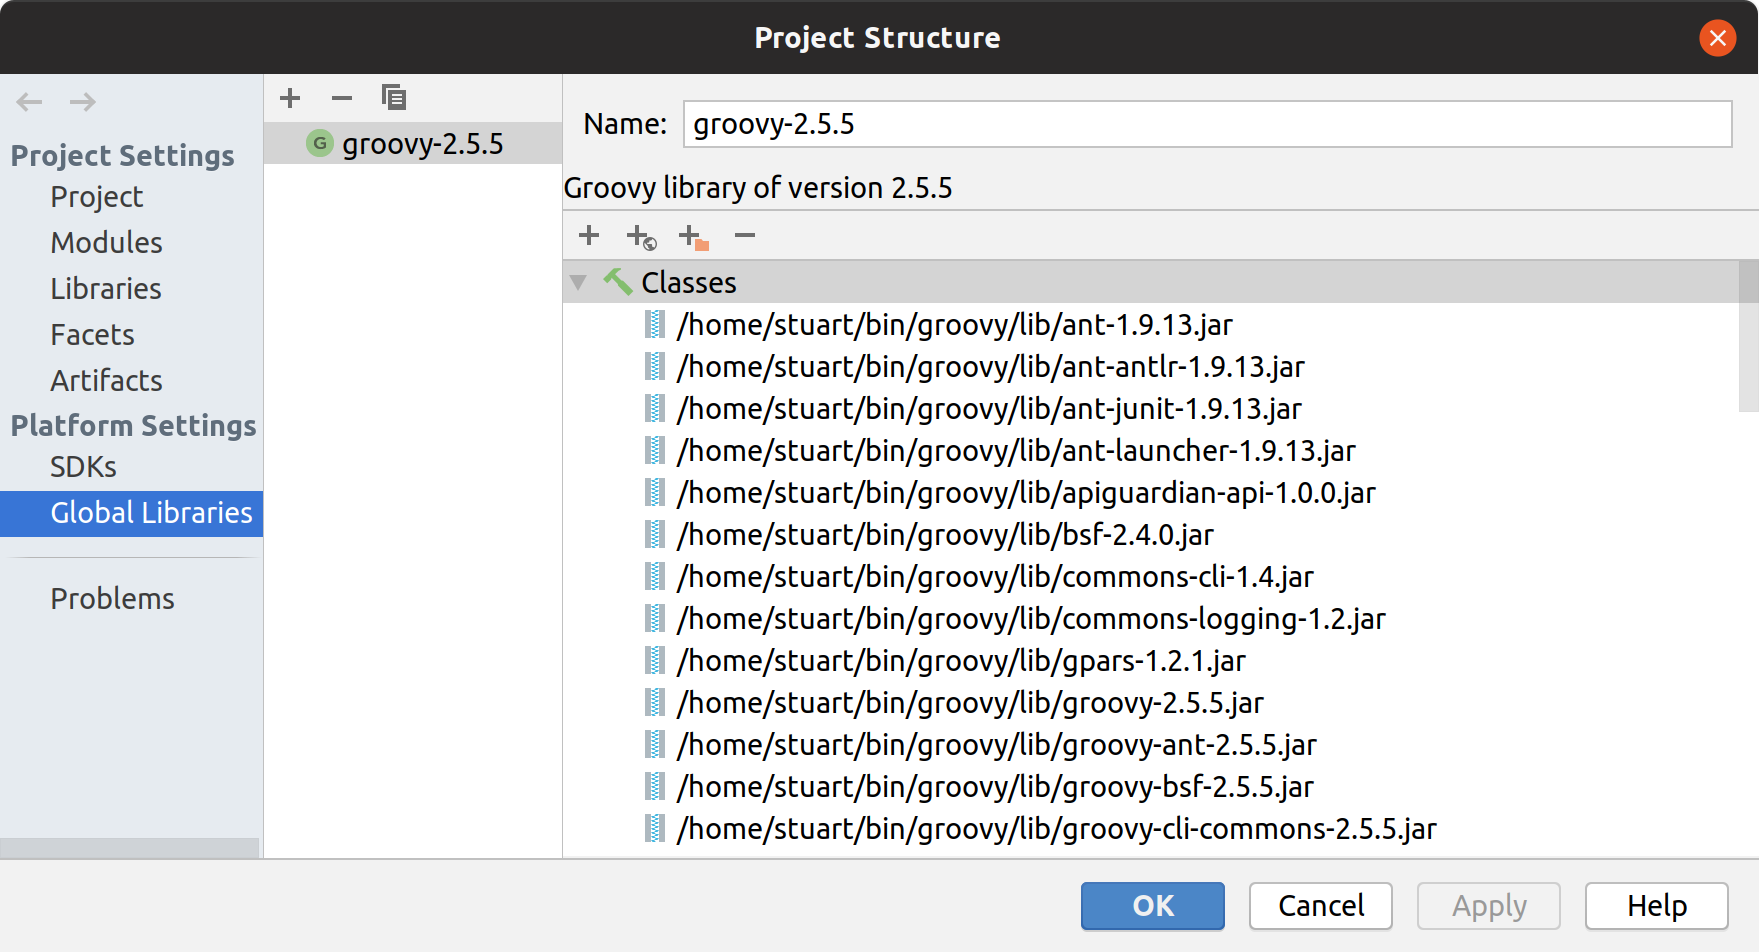
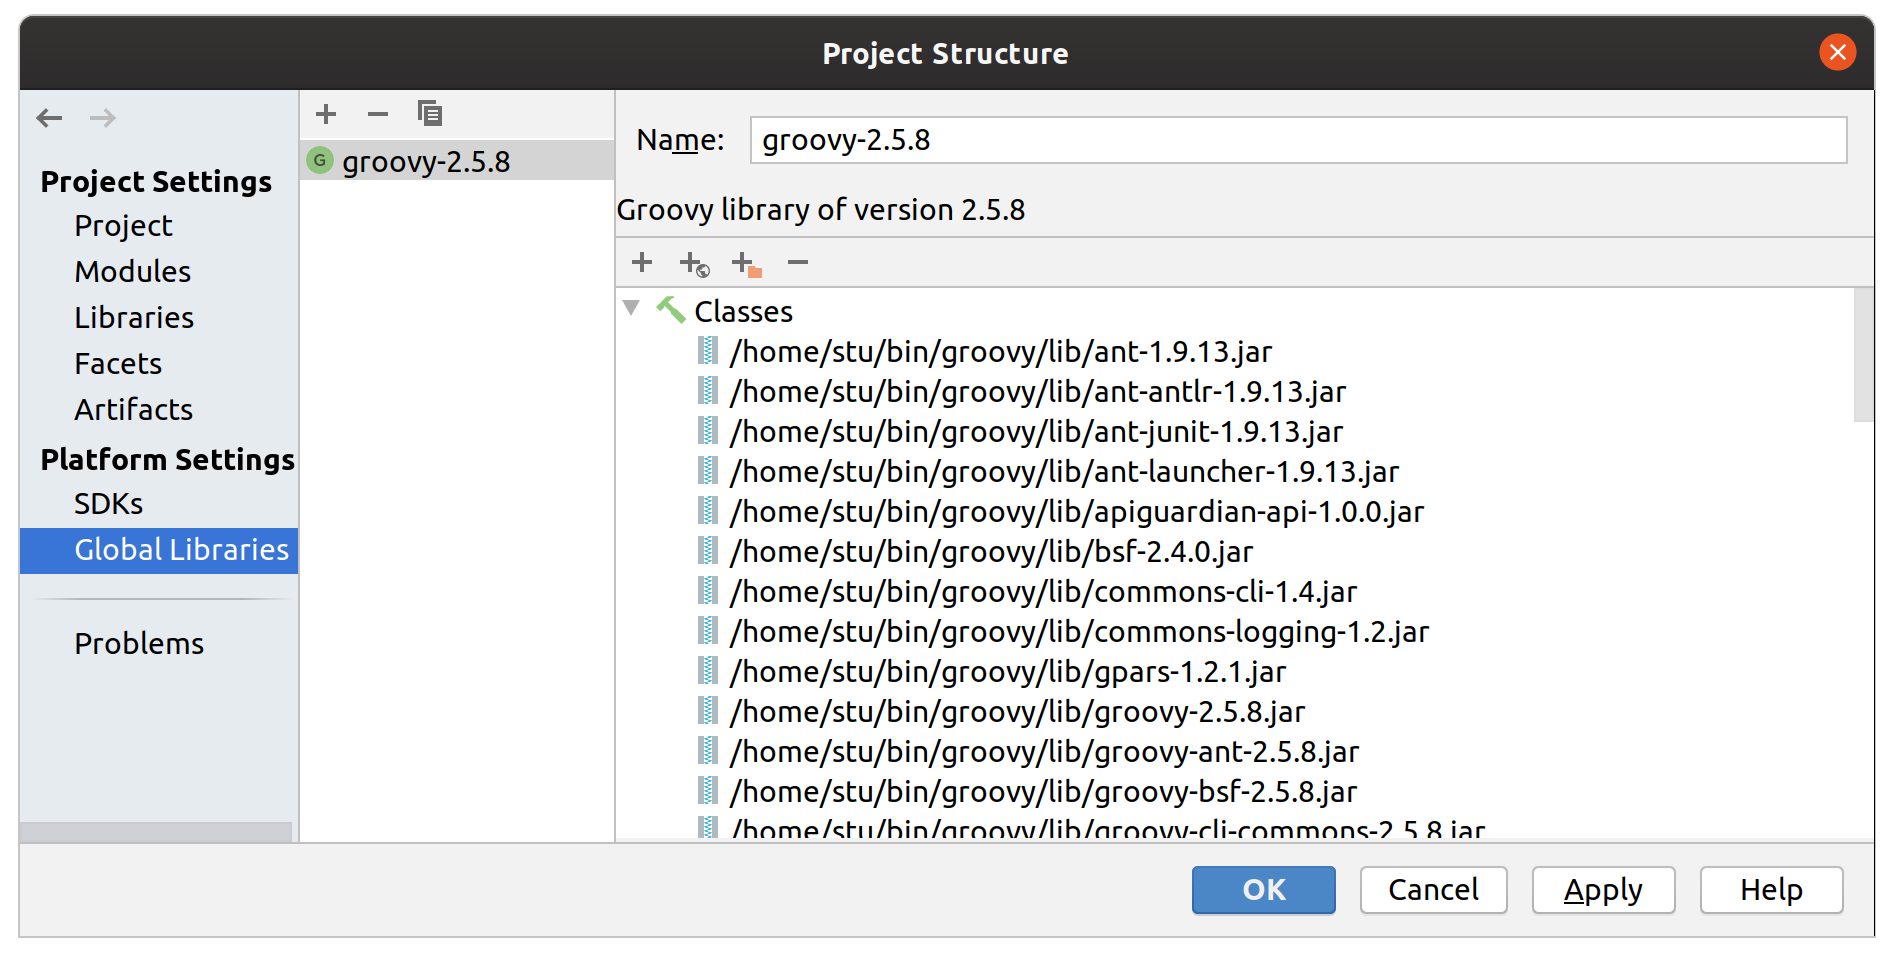
Updating readme with new screenshots

Changed region(s): [[0.0, 0.0, 1.0, 1.0]]

diff --git a/docs/intellij.md b/docs/intellij.md
@@ -1,48 +1,39 @@
 # Setup with Intellij™
 
-### Prerequisites
+### Dependencies
 
----
 
-#### 1) [Get the Groovy SDK](http://groovy-lang.org/)
+##### 1) Install a JDK (we recommend [AdoptOpenJDK](https://adoptopenjdk.net/))
 
-#### 2) [Get Ant and add it to your terminal path](https://ant.apache.org/)
+##### 2) [Get the Groovy SDK](http://groovy-lang.org/)
 
-#### 3) Go to `File > Project Structure` and add Groovy to your Intellij Global Libraries
+##### 3) [Get Ant](https://ant.apache.org/)
 
-<img src="readmeimages/libraries.png" width="500px"/>
+##### 4) Open Intellij Settings and make sure you also have the Groovy plugin for Intellij
+<img src="readmeimages/groovy.png" width="400px"/>
 
-#### 4) Make sure you also have the Groovy plugin for Intellij
-
-<img src="readmeimages/plugins.png" width="400px"/>
-
-#### 5) Clone the project
+##### 5) Clone the project
 
 `$ git clone https://github.com/stackct/toxic.git`
 
-### Setup for development
+##### 6) Open the project and go to `File > Project Structure`
 
----
+##### 7) Under 'Platform Settings > SDKs' and add your JDK installation
+<img src="readmeimages/sdks.png" width="400px"/>
 
-Open the project and go to `File > Project Structure`
+##### 8) Under 'Platform Settings > Global Libraries' add your groovy installation
+<img src="readmeimages/libraries.png" width="400px"/>
 
-#### 1) Set your Java SDK
-
+##### 9) Under 'Project Settings > Project' set your JDK version
 <img src="readmeimages/sdk.png" width="400px"/>
 
-#### 2) Go to `Modules > Sources` and right click to mark folders:
+##### 10) Under 'Project Settings > Modules > Dependencies' make sure the correct JDK is selected for the TOXIC module
+<img src="readmeimages/modules.png" width="400px"/>
+
+##### 11) Go to `Modules > Sources` and right click to mark folders:
 
 - Mark `src` as "Sources"
 - Mark `test` as "Tests"
 - Mark `resources` as "Resources"
 
-<img src="readmeimages/set_sources.png" width="500px"/>
-
-#### 3) VERY IMPORTANT! Be sure to click `Apply`
-
-#### 4) Go to the `Paths` tab and set the output path and output directories
-
-<img src="readmeimages/paths.png" width="500px"/>
-
-
-#### 5) Last step, run `ant` in terminal to build TOXIC!
+##### 11) Go to the `Paths` tab and set the output path and output directories
